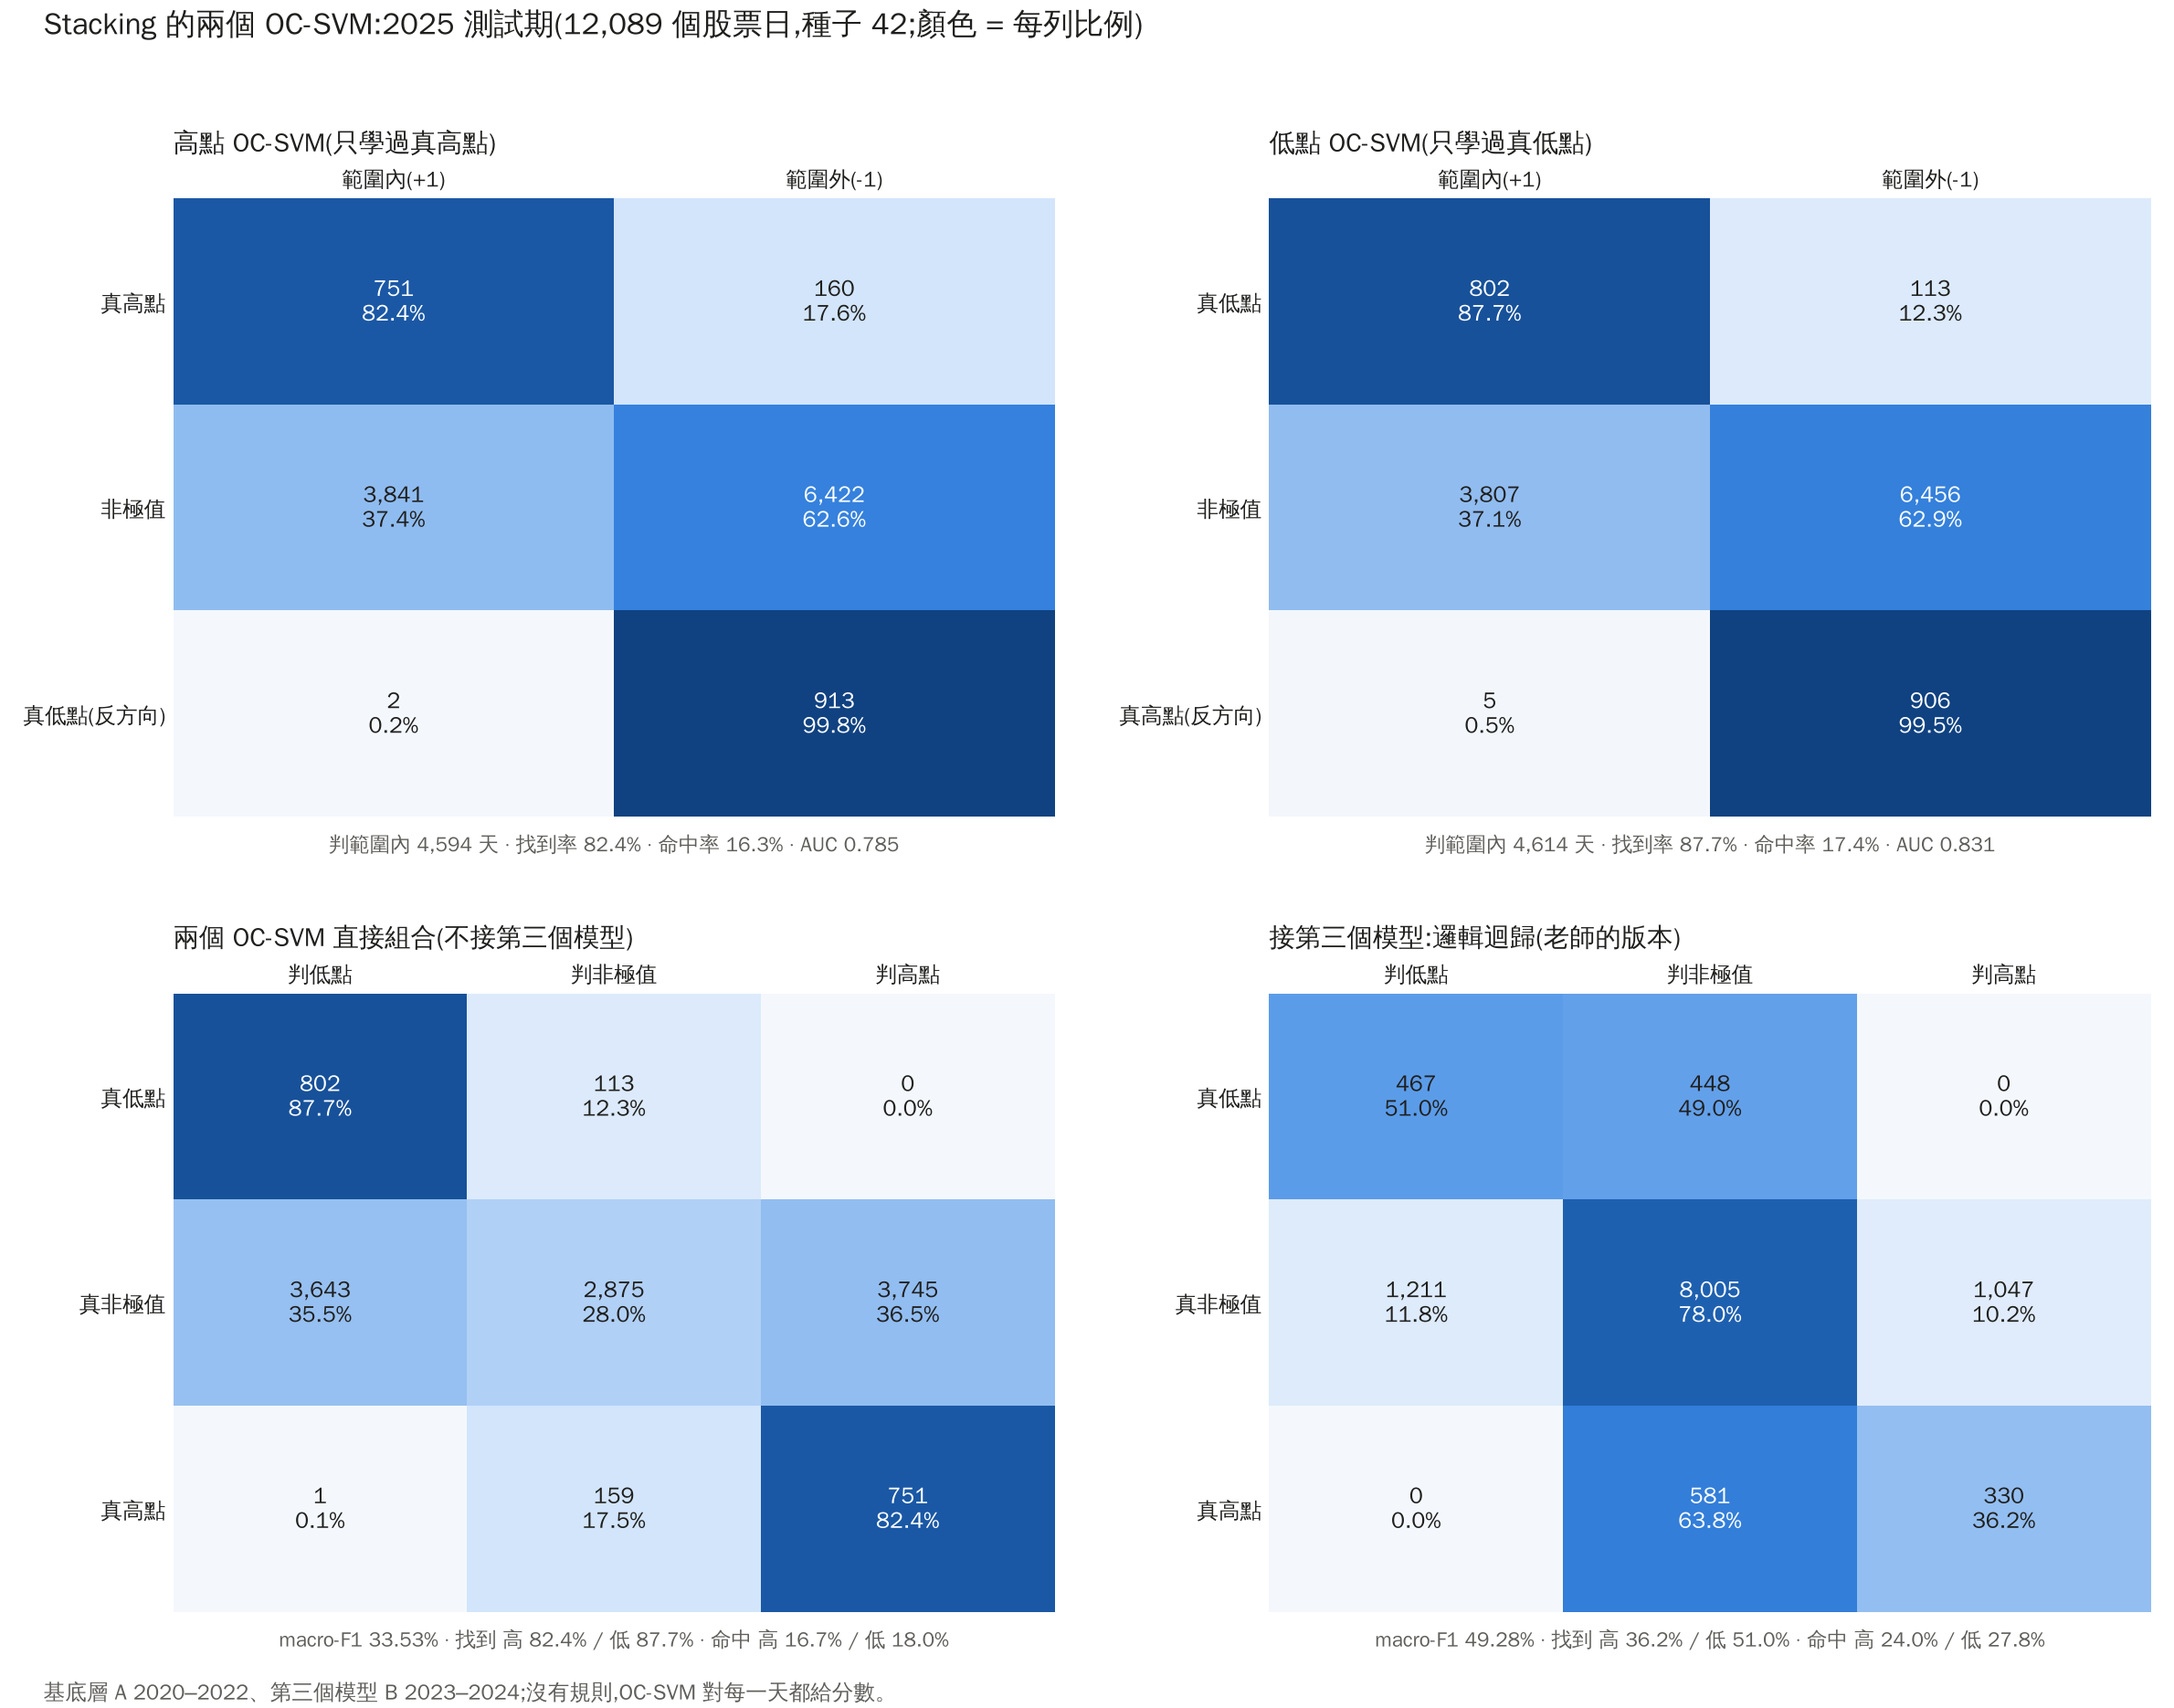
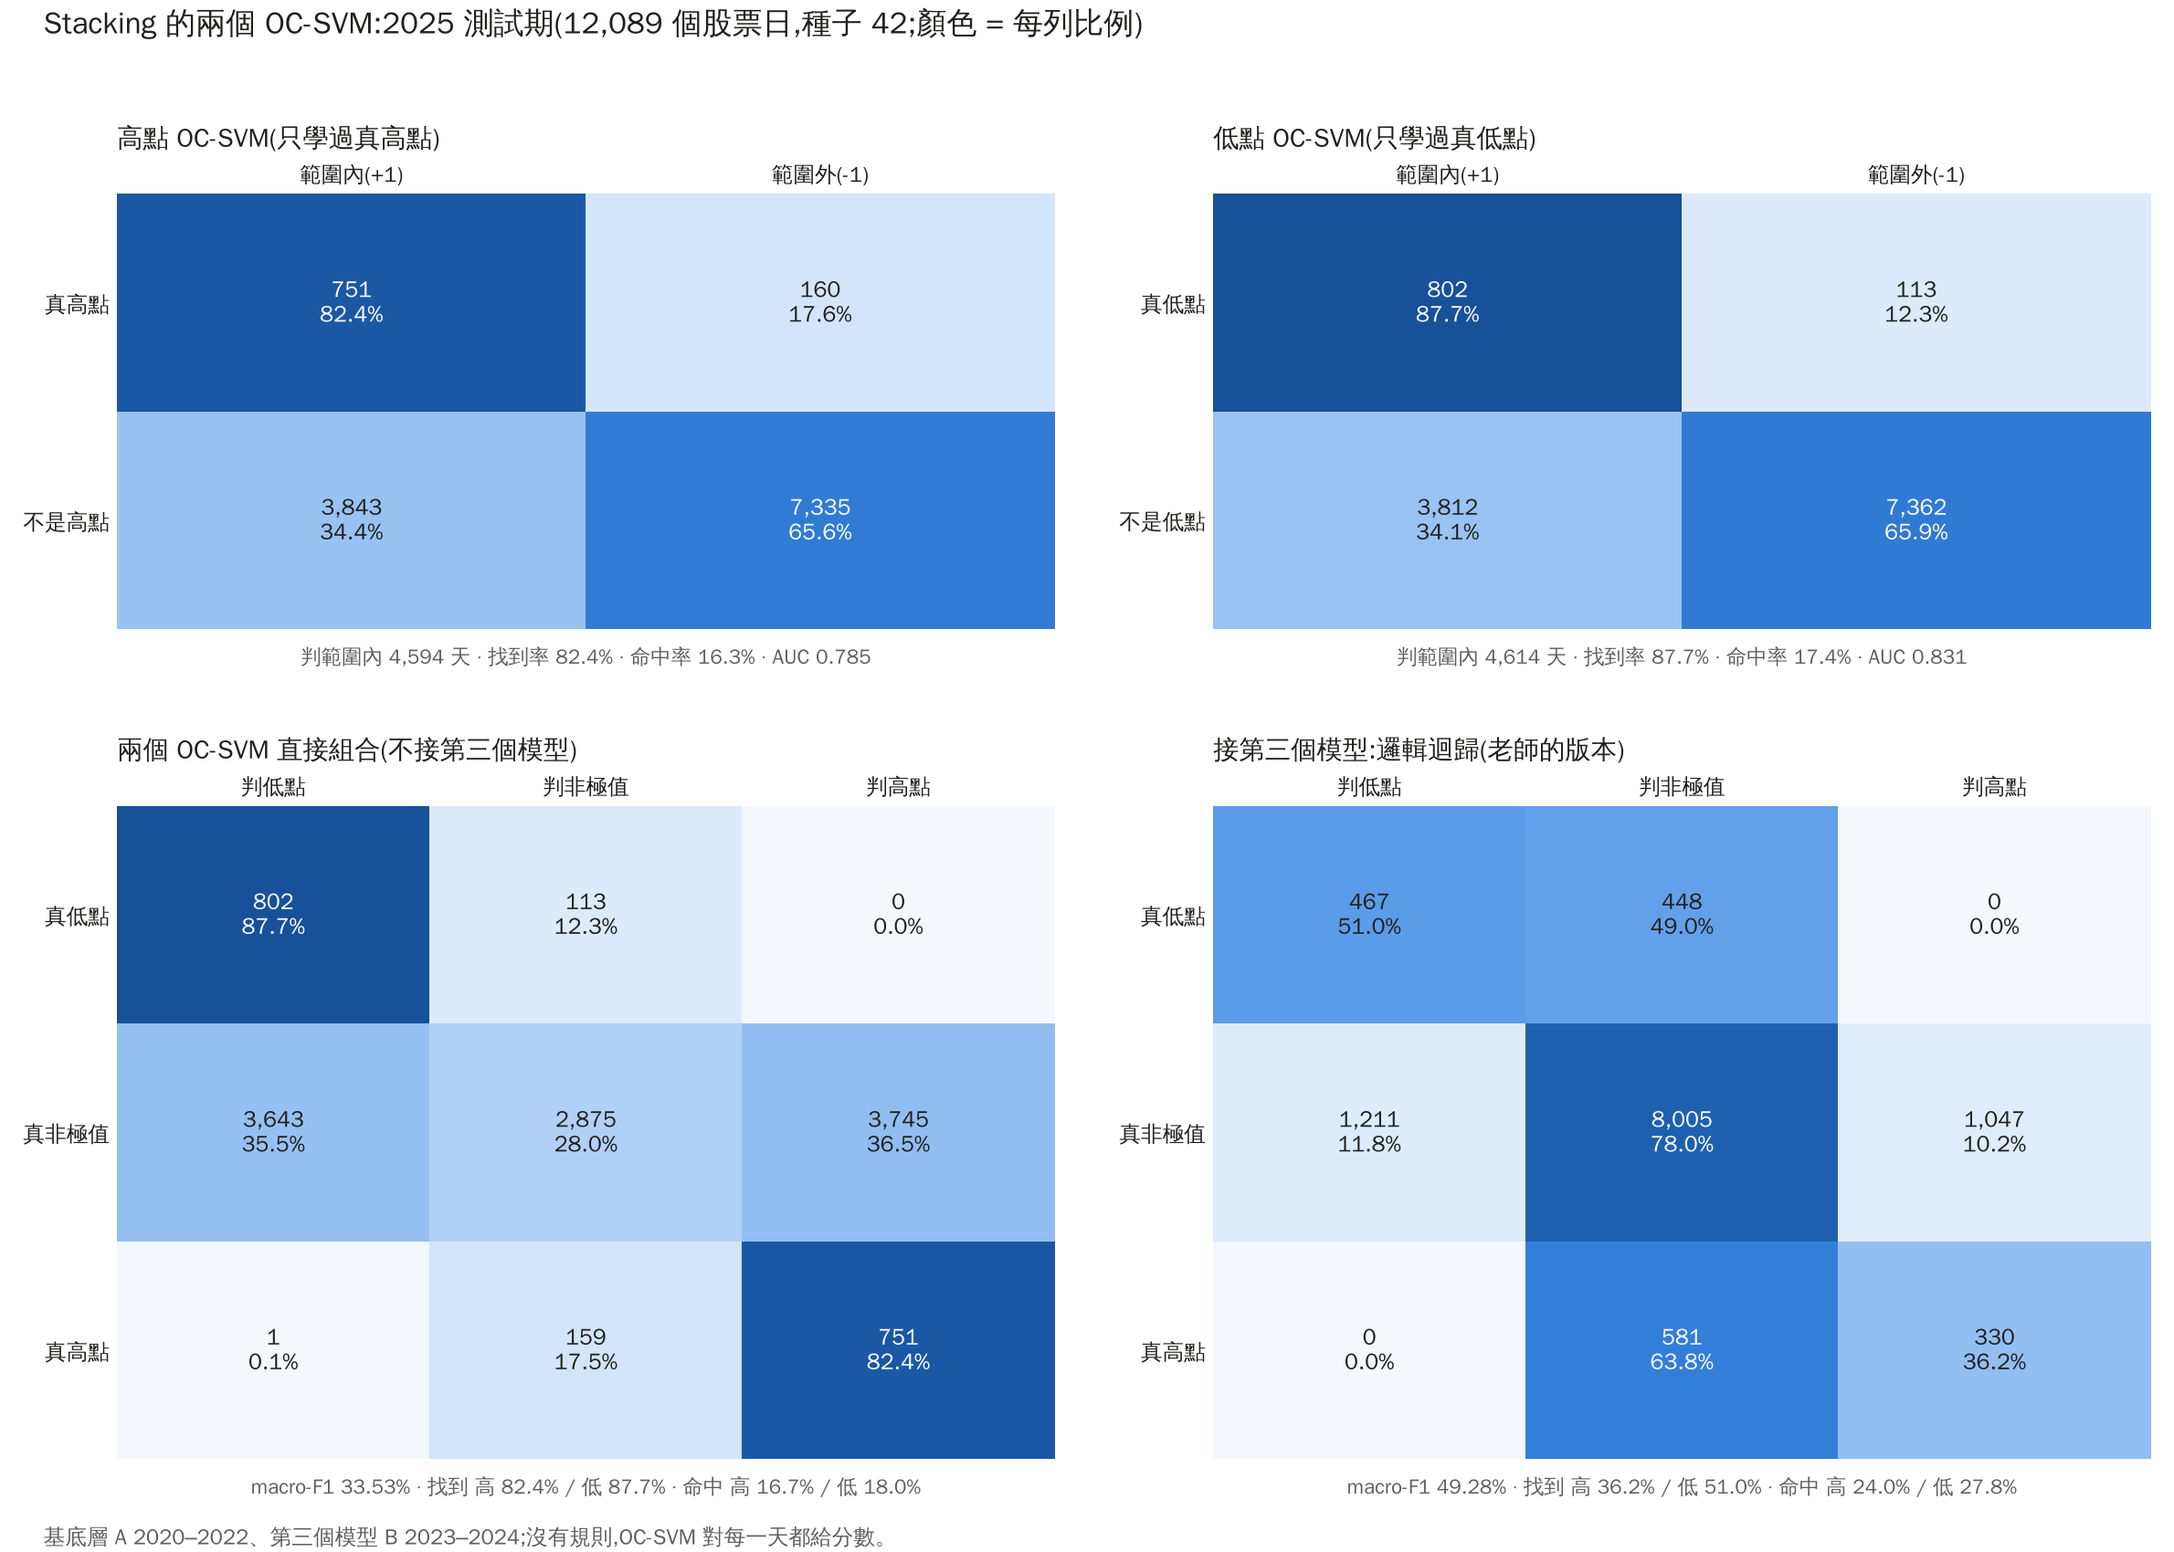
OC-SVM 混淆矩陣改為標準 2 × 2(真高點 / 不是高點 × 範圍內 / 範圍外)
Claude-Session: https://claude.ai/code/session_01RvyJEXgmE4WpkLZabV7Xr1

diff --git a/method_kline_peak/report/ocsvm_confusion.py b/method_kline_peak/report/ocsvm_confusion.py
@@ -1,6 +1,6 @@
 """Stacking 基底層兩個 OC-SVM 的混淆矩陣(種子 42)。
 
-左上 / 右上:高點、低點 OC-SVM 各自的判斷(範圍內 +1 / 範圍外 −1),依真實標籤分列:同方向的真點、非極值、反方向的真點
+左上 / 右上:高點、低點 OC-SVM 各自的標準 2 × 2 混淆矩陣(真高點 / 不是高點 × 範圍內 +1 / 範圍外 −1)
 左下:兩個 OC-SVM 直接組合成三分類(不接第三個模型;兩個都 +1 時看分數大的)
 右下:接第三個模型(多類別邏輯迴歸,只用兩個分數 = 老師的版本)
 切分:2024 → A 2020–2022、B 2023;2025 → A 2020–2022、B 2023–2024(起點同為 2020)
@@ -33,8 +33,8 @@ LABELS = ["低點", "非極值", "高點"]
 
 
 def binary_table(y, inside, cls):
-    me, other = ("高", "低") if cls == DOWN else ("低", "高")
-    groups = [(f"真{me}點", y == cls), ("非極值", y == FLAT), (f"真{other}點(反方向)", y == (UP if cls == DOWN else DOWN))]
+    me = "高" if cls == DOWN else "低"
+    groups = [(f"真{me}點", y == cls), (f"不是{me}點", y != cls)]
     rows = [[int((inside & g).sum()), int((~inside & g).sum())] for _, g in groups]
     return [n for n, _ in groups], np.array(rows)
 
@@ -76,7 +76,7 @@ def main():
     base = S.BaseScorers(42).fit(A, fc)
     FB, FC = base.transform(B), base.transform(C)
 
-    fig, axes = plt.subplots(2, 2, figsize=(14, 11), dpi=170, gridspec_kw={"height_ratios": [3, 3]})
+    fig, axes = plt.subplots(2, 2, figsize=(14, 10), dpi=170, gridspec_kw={"height_ratios": [2, 3]})
     inside = {}
     for ax, cls, col, name in ((axes[0, 0], DOWN, "s_high", "高點"), (axes[0, 1], UP, "s_low", "低點")):
         s = FC[col].to_numpy()
